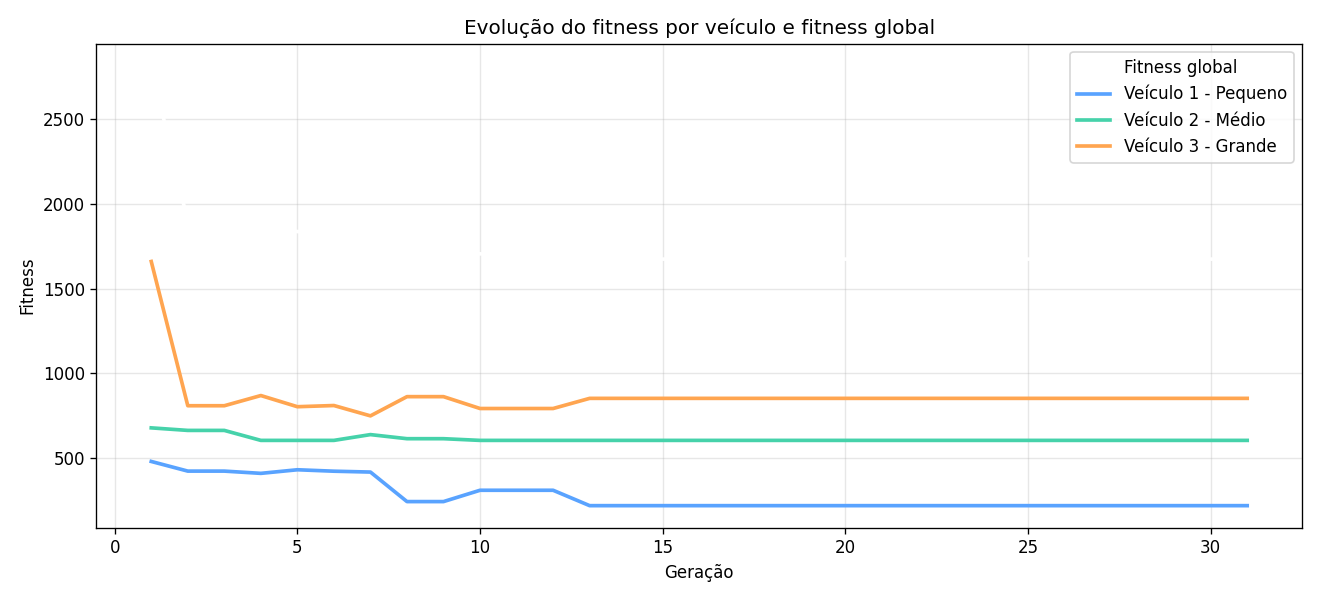
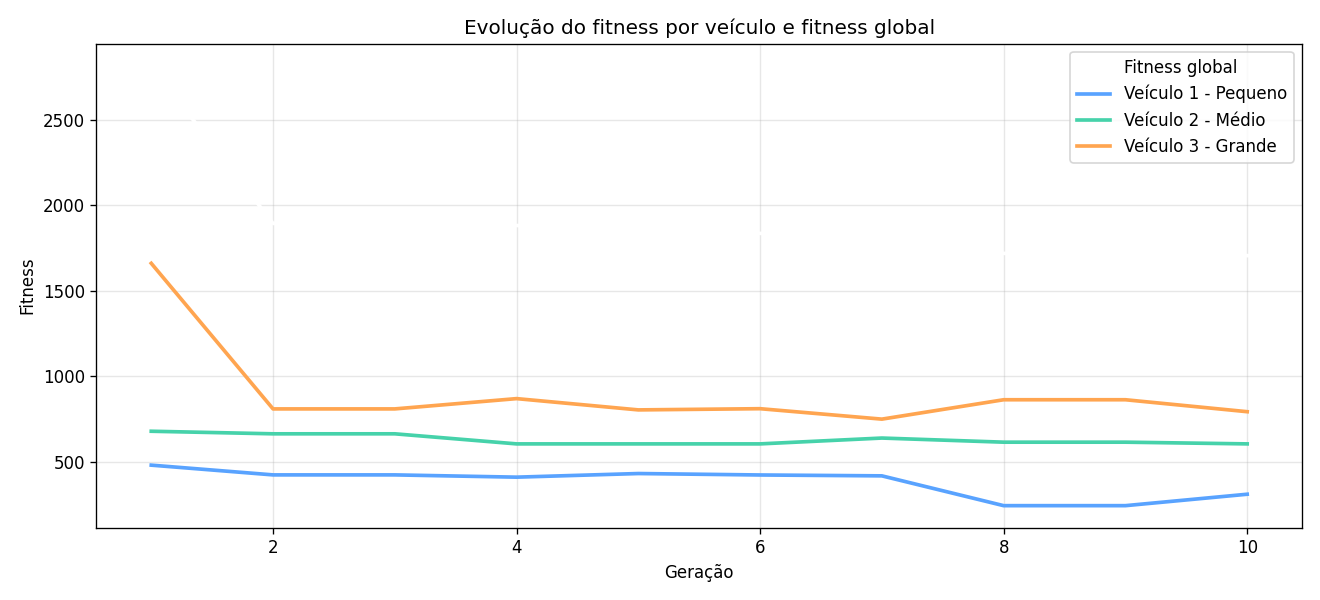
Inclusão dos Nomes das Cidades

diff --git a/tsp.py b/tsp.py
@@ -560,10 +560,18 @@ def main() -> None:
     all_cities, depot = build_city_objects()
     assert len(all_cities) == 20, 'A base ativa precisa ter exatamente 20 cidades.'
 
-    pygame.init()
-    screen = pygame.display.set_mode((WIDTH, HEIGHT))
-    pygame.display.set_caption('VRP com Algoritmo Genético - 20 cidades balanceadas')
-    clock = pygame.time.Clock()
+    headless = False
+    try:
+        pygame.init()
+        screen = pygame.display.set_mode((WIDTH, HEIGHT))
+        pygame.display.set_caption('VRP com Algoritmo Genético - 20 cidades balanceadas')
+        clock = pygame.time.Clock()
+    except pygame.error as e:
+        print(f"Erro ao inicializar display gráfico: {e}")
+        print("Executando em modo headless (sem interface gráfica)...")
+        headless = True
+        screen = None
+        clock = None
 
     population = generate_random_population(all_cities, POPULATION_SIZE)
 
@@ -576,27 +584,30 @@ def main() -> None:
     final_results = None
 
     print('Execução iniciada...')
-    print('Controles: Q = sair | P = pausar/continuar')
+    if not headless:
+        print('Controles: Q = sair | P = pausar/continuar')
     print('-' * 110)
 
     while running and generation < N_GENERATIONS:
-        for event in pygame.event.get():
-            if event.type == pygame.QUIT:
-                running = False
-            elif event.type == pygame.KEYDOWN:
-                if event.key == pygame.K_q:
+        if not headless:
+            for event in pygame.event.get():
+                if event.type == pygame.QUIT:
                     running = False
-                elif event.key == pygame.K_p:
-                    paused = not paused
+                elif event.type == pygame.KEYDOWN:
+                    if event.key == pygame.K_q:
+                        running = False
+                    elif event.key == pygame.K_p:
+                        paused = not paused
 
-        if paused:
-            pygame.display.flip()
-            clock.tick(FPS)
-            continue
+            if paused:
+                pygame.display.flip()
+                clock.tick(FPS)
+                continue
 
         generation += 1
-        screen.fill(BACKGROUND)
-        draw_map_background(screen, depot)
+        if not headless:
+            screen.fill(BACKGROUND)
+            draw_map_background(screen, depot)
 
         population, global_fitness, merged_results, _, testing_results = evolve_global_population(population, depot)
         final_results = merged_results
@@ -606,49 +617,50 @@ def main() -> None:
             vehicle_id = result['vehicle']['id']
             vehicle_fitness_history[vehicle_id].append(result['fitness'])
 
-        for result in testing_results:
-            test_points = route_to_screen_points(result['best_route'], depot)
-            draw_paths(screen, test_points, GRAY_ROUTE, width=2, close_path=False)
+        if not headless:
+            for result in testing_results:
+                test_points = route_to_screen_points(result['best_route'], depot)
+                draw_paths(screen, test_points, GRAY_ROUTE, width=2, close_path=False)
 
-        for result in merged_results:
-            best_points = route_to_screen_points(result['best_route'], depot)
-            draw_paths(screen, best_points, result['vehicle']['color'], width=4, close_path=False)
+            for result in merged_results:
+                best_points = route_to_screen_points(result['best_route'], depot)
+                draw_paths(screen, best_points, result['vehicle']['color'], width=4, close_path=False)
 
-        draw_cities(screen, all_cities, YELLOW, NODE_RADIUS, show_labels=False)
+            draw_cities(screen, all_cities, YELLOW, NODE_RADIUS, show_labels=True)
 
-        draw_text(screen, f'Geração: {generation}/{N_GENERATIONS}', WHITE, (RIGHT_PANEL_X, 20), font_size=22, bold=True)
-        draw_text(screen, f'Fitness global: {global_fitness:.2f}', WHITE, (RIGHT_PANEL_X, 52), font_size=18)
-        draw_text(screen, f'Mutação: {MUTATION_PROBABILITY:.2f}', SOFT_TEXT, (RIGHT_PANEL_X, 78), font_size=16)
+            draw_text(screen, f'Geração: {generation}/{N_GENERATIONS}', WHITE, (RIGHT_PANEL_X, 20), font_size=22, bold=True)
+            draw_text(screen, f'Fitness global: {global_fitness:.2f}', WHITE, (RIGHT_PANEL_X, 52), font_size=18)
+            draw_text(screen, f'Mutação: {MUTATION_PROBABILITY:.2f}', SOFT_TEXT, (RIGHT_PANEL_X, 78), font_size=16)
 
-        draw_vehicle_legend(screen, VEHICLES, (RIGHT_PANEL_X, 110))
-        draw_route_summary(screen, merged_results, (RIGHT_PANEL_X, 275))
+            draw_vehicle_legend(screen, VEHICLES, (RIGHT_PANEL_X, 110))
+            draw_route_summary(screen, merged_results, (RIGHT_PANEL_X, 275))
 
-        plot_x = list(range(1, len(best_global_fitness_history) + 1))
-        plot_series = [
-            {
-                'label': 'Fitness global',
-                'values': best_global_fitness_history,
-                'color': (255, 255, 255),
-            }
-        ]
-
-        for vehicle in VEHICLES:
-            plot_series.append(
+            plot_x = list(range(1, len(best_global_fitness_history) + 1))
+            plot_series = [
                 {
-                    'label': f"{vehicle['label']} - {vehicle['name']}",
-                    'values': vehicle_fitness_history[vehicle['id']],
-                    'color': vehicle['color'],
+                    'label': 'Fitness global',
+                    'values': best_global_fitness_history,
+                    'color': (255, 255, 255),
                 }
-            )
+            ]
 
-        draw_plot(
-            screen,
-            plot_x,
-            plot_series,
-            x_label='Geração',
-            y_label='Fitness',
-            position=(RIGHT_PANEL_X, 470),
-        )
+            for vehicle in VEHICLES:
+                plot_series.append(
+                    {
+                        'label': f"{vehicle['label']} - {vehicle['name']}",
+                        'values': vehicle_fitness_history[vehicle['id']],
+                        'color': vehicle['color'],
+                    }
+                )
+
+            draw_plot(
+                screen,
+                plot_x,
+                plot_series,
+                x_label='Geração',
+                y_label='Fitness',
+                position=(RIGHT_PANEL_X, 470),
+            )
 
         print(f'Geração {generation:03d} | Fitness global = {global_fitness:10.2f}')
         for result in merged_results:
@@ -661,8 +673,9 @@ def main() -> None:
             )
         print('-' * 110)
 
-        pygame.display.flip()
-        clock.tick(FPS)
+        if not headless:
+            pygame.display.flip()
+            clock.tick(FPS)
 
     if best_global_fitness_history:
         final_series = [
@@ -685,6 +698,7 @@ def main() -> None:
             )
 
         save_fitness_chart(final_series, output_path='fitness_evolution.png')
+        print('Gráfico final salvo em: fitness_evolution.png')
 
     if final_results:
         print('\nResumo final da melhor solução encontrada nessa execução:')
@@ -696,9 +710,9 @@ def main() -> None:
                 f"distância={result['distance_km']:.1f} km | demanda={result['demand']} | "
                 f"tempo={result['work_minutes']:.1f} min | primeiras cidades={city_names}..."
             )
-        print('Gráfico final salvo em: fitness_evolution.png')
 
-    pygame.quit()
+    if not headless:
+        pygame.quit()
     sys.exit()
 
 

diff --git a/cities_data.py b/cities_data.py
@@ -1,0 +1,126 @@
+from typing import List, Tuple
+
+# Cada tupla segue o formato:
+# (grupo, nome, latitude, longitude, demanda, prioridade)
+RAW_CITIES: List[Tuple[int, str, float, float, int, str]] = [
+    (1, 'São Paulo', -23.55, -46.63, 18, 'critica'),
+    (1, 'Guarulhos', -23.45, -46.53, 12, 'regular'),
+    (1, 'Osasco', -23.53, -46.79, 10, 'regular'),
+    (1, 'Barueri', -23.51, -46.88, 9, 'regular'),
+    (1, 'Carapicuíba', -23.52, -46.84, 8, 'regular'),
+    (1, 'Jandira', -23.53, -46.90, 7, 'regular'),
+    (1, 'Itapevi', -23.55, -46.93, 8, 'regular'),
+    (1, 'Cotia', -23.60, -46.92, 12, 'critica'),
+    (1, 'Taboão da Serra', -23.62, -46.79, 9, 'regular'),
+    (1, 'Embu das Artes', -23.65, -46.85, 8, 'regular'),
+    (1, 'Itapecerica da Serra', -23.72, -46.85, 11, 'critica'),
+    (1, 'Santana de Parnaíba', -23.44, -46.92, 8, 'regular'),
+    (1, 'Cajamar', -23.36, -46.88, 9, 'regular'),
+    (1, 'Franco da Rocha', -23.32, -46.73, 10, 'regular'),
+    (1, 'Caieiras', -23.36, -46.74, 7, 'regular'),
+    (1, 'Francisco Morato', -23.28, -46.74, 8, 'regular'),
+    (1, 'Mairiporã', -23.32, -46.59, 8, 'regular'),
+    (1, 'Diadema', -23.69, -46.62, 10, 'regular'),
+    (1, 'São Caetano do Sul', -23.62, -46.55, 9, 'regular'),
+    (1, 'Santo André', -23.66, -46.53, 11, 'critica'),
+    (2, 'São Bernardo do Campo', -23.69, -46.56, 14, 'critica'),
+    (2, 'Mauá', -23.67, -46.46, 10, 'regular'),
+    (2, 'Ribeirão Pires', -23.71, -46.41, 8, 'regular'),
+    (2, 'Rio Grande da Serra', -23.74, -46.40, 7, 'regular'),
+    (2, 'Suzano', -23.54, -46.31, 11, 'regular'),
+    (2, 'Poá', -23.53, -46.35, 7, 'regular'),
+    (2, 'Ferraz de Vasconcelos', -23.54, -46.37, 8, 'regular'),
+    (2, 'Itaquaquecetuba', -23.49, -46.35, 10, 'regular'),
+    (2, 'Arujá', -23.40, -46.32, 9, 'regular'),
+    (2, 'Santa Isabel', -23.31, -46.22, 8, 'regular'),
+    (2, 'Mogi das Cruzes', -23.52, -46.19, 13, 'critica'),
+    (2, 'Biritiba-Mirim', -23.57, -46.04, 7, 'regular'),
+    (2, 'Salesópolis', -23.53, -45.85, 7, 'regular'),
+    (2, 'Guararema', -23.42, -46.04, 8, 'regular'),
+    (2, 'Jacareí', -23.30, -45.97, 12, 'regular'),
+    (2, 'São José dos Campos', -23.19, -45.88, 15, 'critica'),
+    (2, 'Caçapava', -23.10, -45.71, 8, 'regular'),
+    (2, 'Taubaté', -23.03, -45.56, 10, 'regular'),
+    (2, 'Pindamonhangaba', -22.92, -45.46, 8, 'regular'),
+    (2, 'Tremembé', -22.96, -45.55, 7, 'regular'),
+    (2, 'Guaratinguetá', -22.82, -45.19, 11, 'critica'),
+    (2, 'Aparecida', -22.85, -45.23, 9, 'regular'),
+    (2, 'Lorena', -22.73, -45.12, 9, 'regular'),
+    (2, 'Cruzeiro', -22.58, -44.96, 8, 'regular'),
+    (2, 'Cachoeira Paulista', -22.67, -45.01, 7, 'regular'),
+    (3, 'Campinas', -22.90, -47.06, 17, 'critica'),
+    (3, 'Valinhos', -22.97, -46.99, 9, 'regular'),
+    (3, 'Vinhedo', -23.03, -46.98, 8, 'regular'),
+    (3, 'Louveira', -23.09, -46.95, 7, 'regular'),
+    (3, 'Jundiaí', -23.19, -46.88, 12, 'regular'),
+    (3, 'Várzea Paulista', -23.21, -46.83, 8, 'regular'),
+    (3, 'Campo Limpo Paulista', -23.21, -46.78, 8, 'regular'),
+    (3, 'Jarinu', -23.10, -46.73, 7, 'regular'),
+    (3, 'Atibaia', -23.12, -46.55, 10, 'regular'),
+    (3, 'Bom Jesus dos Perdões', -23.14, -46.46, 6, 'regular'),
+    (3, 'Bragança Paulista', -22.95, -46.54, 9, 'regular'),
+    (3, 'Joanópolis', -22.93, -46.27, 6, 'regular'),
+    (3, 'Piracaia', -23.05, -46.36, 7, 'regular'),
+    (3, 'Nazaré Paulista', -23.18, -46.40, 7, 'regular'),
+    (3, 'Igaratá', -23.20, -46.16, 6, 'regular'),
+    (3, 'Salto', -23.20, -47.29, 8, 'regular'),
+    (3, 'Itu', -23.26, -47.30, 10, 'regular'),
+    (3, 'Sorocaba', -23.50, -47.46, 15, 'critica'),
+    (3, 'Votorantim', -23.54, -47.44, 8, 'regular'),
+    (3, 'Mairinque', -23.55, -47.18, 7, 'regular'),
+    (3, 'São Roque', -23.53, -47.14, 8, 'regular'),
+    (3, 'Alumínio', -23.53, -47.25, 7, 'regular'),
+    (3, 'Araçariguama', -23.44, -47.06, 7, 'regular'),
+    (3, 'Boituva', -23.28, -47.67, 8, 'regular'),
+    (3, 'Porto Feliz', -23.21, -47.52, 7, 'regular'),
+    (3, 'Tietê', -23.11, -47.72, 7, 'regular'),
+    (3, 'Indaiatuba', -23.09, -47.22, 10, 'regular'),
+    (3, 'Hortolândia', -22.85, -47.21, 9, 'regular'),
+    (3, 'Sumaré', -22.82, -47.27, 9, 'regular'),
+    (3, 'Paulínia', -22.76, -47.15, 8, 'regular'),
+    (3, 'Americana', -22.74, -47.33, 8, 'regular'),
+    (3, 'Nova Odessa', -22.78, -47.29, 7, 'regular'),
+    (3, "Santa Bárbara d'Oeste", -22.75, -47.41, 8, 'regular'),
+    (3, 'Limeira', -22.56, -47.40, 10, 'regular'),
+    (3, 'Piracicaba', -22.73, -47.65, 11, 'critica'),
+    (3, 'Rio Claro', -22.41, -47.56, 9, 'regular'),
+    (3, 'Santos', -23.96, -46.33, 14, 'critica'),
+    (3, 'São Vicente', -23.96, -46.39, 8, 'regular'),
+    (3, 'Praia Grande', -24.01, -46.41, 10, 'regular'),
+    (3, 'Cubatão', -23.89, -46.42, 9, 'regular'),
+    (3, 'Guarujá', -23.99, -46.26, 10, 'regular'),
+    (3, 'Bertioga', -23.85, -46.14, 8, 'regular'),
+    (3, 'Mongaguá', -24.10, -46.62, 7, 'regular'),
+    (3, 'Itanhaém', -24.18, -46.79, 8, 'regular'),
+    (3, 'Peruíbe', -24.31, -47.00, 8, 'regular'),
+]
+
+SELECTED_CITY_NAMES = {
+    'São Paulo',
+    'Guarulhos',
+    'Osasco',
+    'Cotia',
+    'Itapecerica da Serra',
+    'Santo André',
+    'Mairiporã',
+    'São Bernardo do Campo',
+    'Suzano',
+    'Arujá',
+    'Mogi das Cruzes',
+    'Jacareí',
+    'São José dos Campos',
+    'Guaratinguetá',
+    'Campinas',
+    'Jundiaí',
+    'Atibaia',
+    'Sorocaba',
+    'Piracicaba',
+    'Santos',
+}
+
+
+def get_balanced_raw_cities() -> List[Tuple[int, str, float, float, int, str]]:
+    """Retorna 20 cidades de forma equilibrada e mesclada."""
+    selected = [city for city in RAW_CITIES if city[1] in SELECTED_CITY_NAMES]
+    selected.sort(key=lambda item: (item[0], item[1]))
+    return selected

diff --git a/draw_functions.py b/draw_functions.py
@@ -79,7 +79,10 @@ def draw_cities(
     node_radius: int = 5,
     show_labels: bool = False
 ) -> None:
-    """Desenha as cidades no mapa."""
+    """Desenha as cidades no mapa.
+
+    Quando show_labels=True, mostra também a criticidade de cada ponto.
+    """
     for city in cities:
         position = city['screen_pos']
         pygame.draw.circle(screen, rgb_color, position, node_radius)
@@ -89,7 +92,15 @@ def draw_cities(
             pygame.draw.circle(screen, (220, 60, 60), position, node_radius + 2, 1)
 
         if show_labels:
-            draw_text(screen, city['name'], (230, 230, 230), (position[0] + 6, position[1] - 8), font_size=11)
+            priority_text = 'Crítica' if city['priority'] == 'critica' else 'Regular'
+            label = f"{city['name']} - {priority_text}"
+            label_x = position[0] + 8
+            label_y = position[1] - 10
+
+            # sombra simples para melhorar a leitura no mapa
+            draw_text(screen, label, (20, 20, 20), (label_x + 1, label_y + 1), font_size=11, bold=False)
+            label_color = (255, 210, 210) if city['priority'] == 'critica' else (230, 230, 230)
+            draw_text(screen, label, label_color, (label_x, label_y), font_size=11, bold=False)
 
 
 def draw_paths(